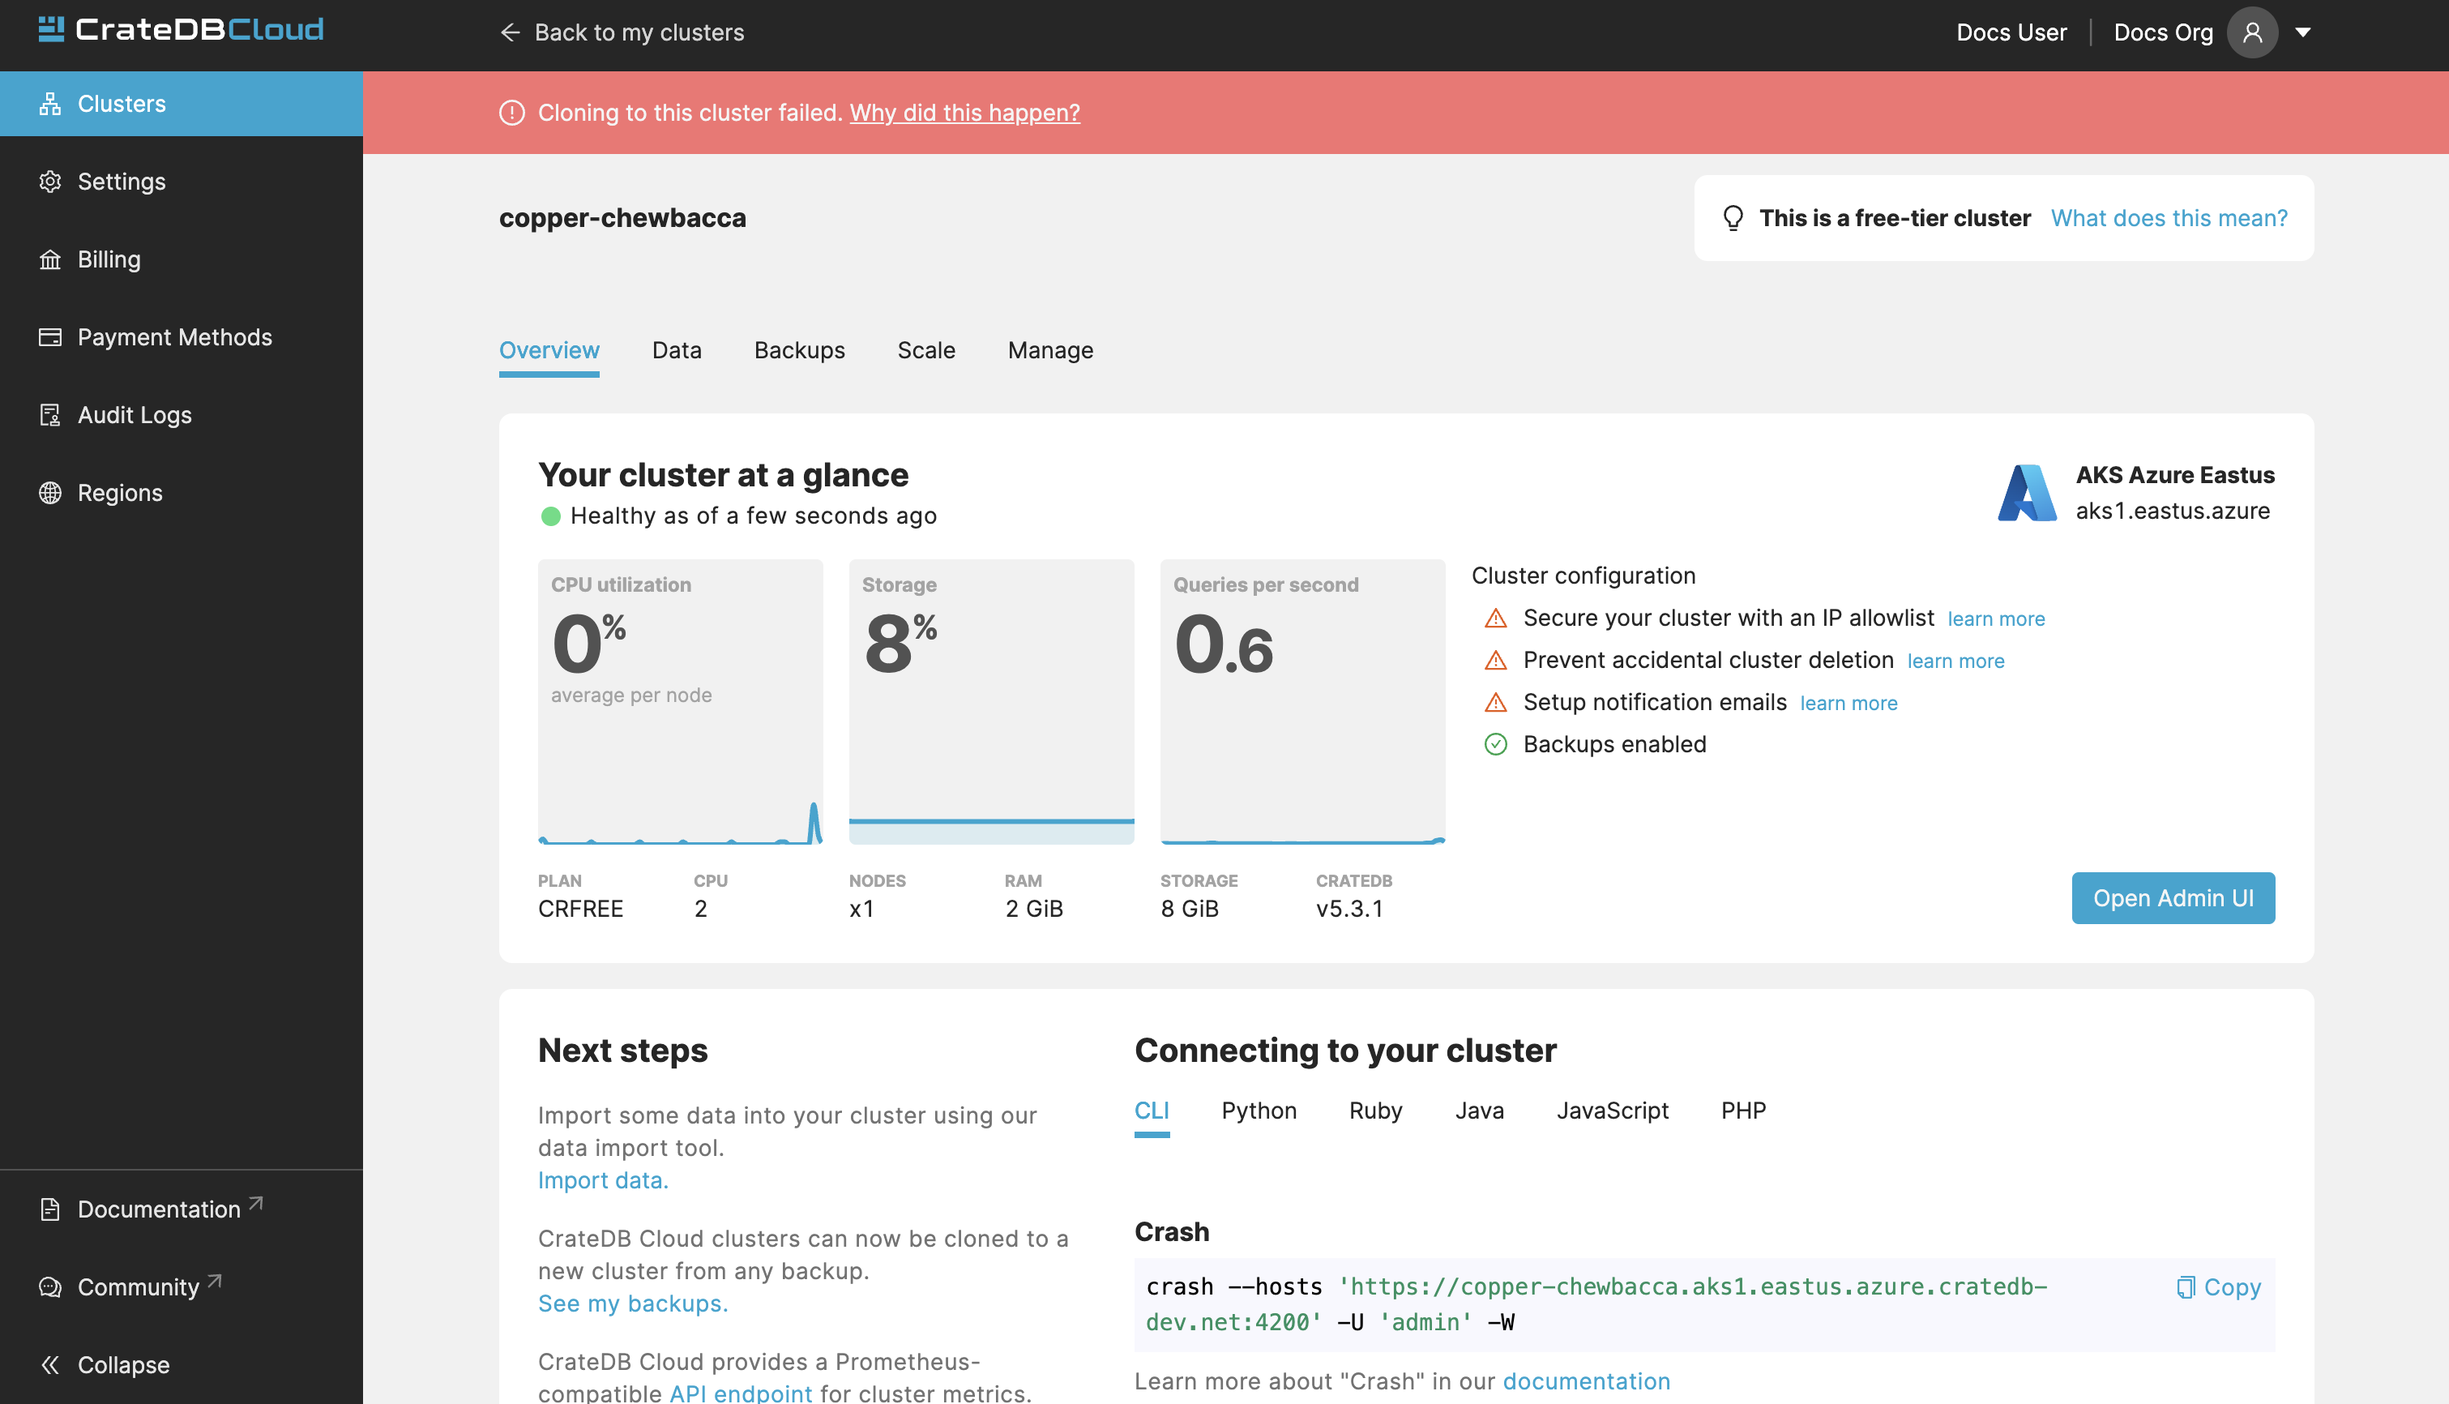
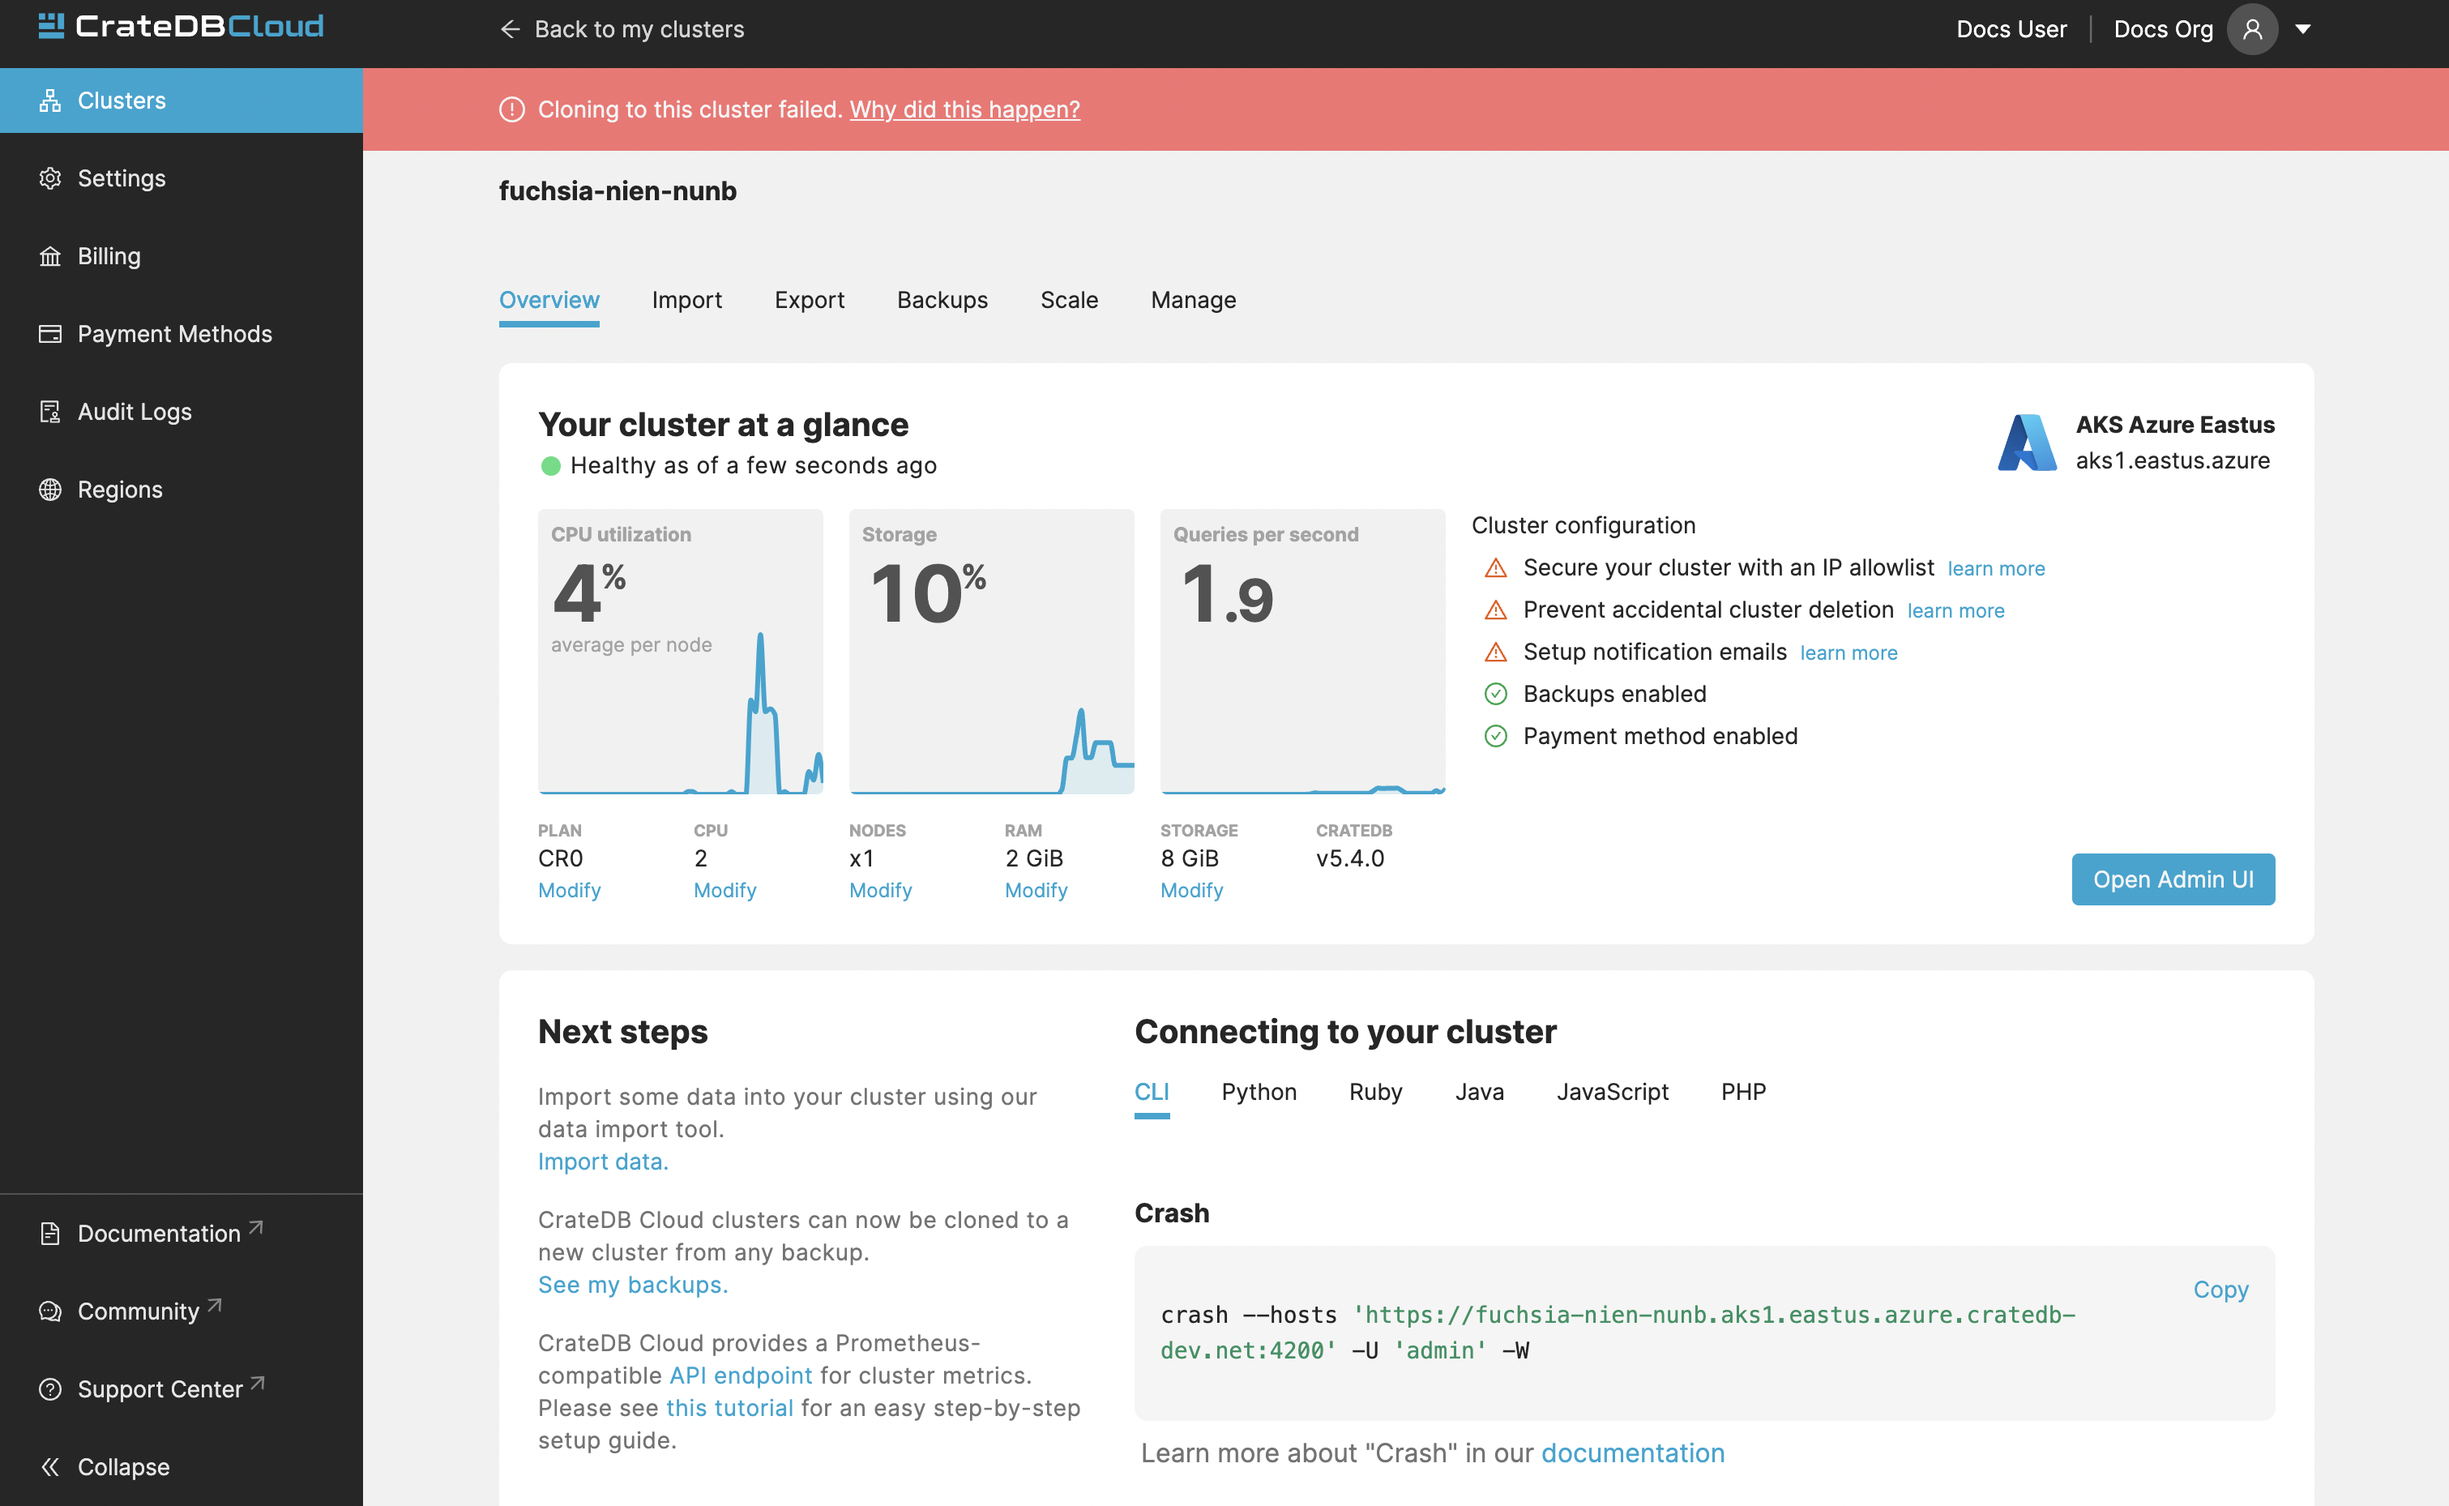
Document export feature

diff --git a/docs/overview.rst b/docs/overview.rst
@@ -71,7 +71,7 @@ the My Account page in the dropdown menu in the top-right.
 .. image:: _assets/img/organization-dashboard.png
    :alt: Cloud Console organization overview
 
-The Organization overview consists of seven tabs: *Clusters*, *Settings*, 
+The Organization overview consists of six tabs: *Clusters*, *Settings*, 
 *Billing*, *Payment Methods*, *Audit Logs*, and *Regions*. By default
 you are brought to the Clusters tab, which provides a quick overview of all
 your clusters.
@@ -267,29 +267,32 @@ Connecting to your cluster
 Here you can see a list of snippets for the available clients and libraries. 
 These include: CLI, Python, Ruby, Java, JavaScript, PHP.
 
-.. _overview-cluster-overview-access:
+.. _overview-import-tab:
 
-.. _overview-cluster-data:
+Import
+------
 
-Data
-----
+.. image:: _assets/img/cluster-import-tab.png
+   :alt: Cloud Console cluster import tab
 
-In the Data tab, users can conveniently import data from a URL, or from a 
-file.
+The first thing you see in the "Import" tab is the history of your imports. 
+You can see whether you imported from a URL or from a file, file name, table
+into which you imported, date, and status. By clicking "Show details" you can
+display the size and the number of records imported.
 
-.. _overview-cluster-data-url:
+Clicking the "Import new data" button will bring up a choice between URL 
+import and file import.
+
+.. image:: _assets/img/cluster-import-tab-choice.png
+   :alt: Cloud Console cluster upload choice
+
+If you don't have a dataset prepared, we also provide an example. It's the New
+York City taxi trip dataset for July of 2019 (about 6.3M records).
+
+.. _overview-cluster-import-url:
 
 Import from URL
 ~~~~~~~~~~~~~~~
-
-.. image:: _assets/img/cluster-data-tab.png
-   :alt: Cloud Console cluster data tab
-
-Here you can choose between the Import from URL and Import from file. To 
-import from a URL, click the Import from a URL button:
-
-.. image:: _assets/img/cluster-data-tab-url.png
-   :alt: Cloud Console cluster upload from url
 
 To import data, fill out the URL, name of the table which will be created and
 populated with your data, data format, and whether it is compressed.
@@ -306,7 +309,10 @@ The following data formats are supported:
 
 Gzip compressed files are also supported.
 
-.. _overview-cluster-data-file:
+.. image:: _assets/img/cluster-import-tab-url.png
+   :alt: Cloud Console cluster upload from URL
+
+.. _overview-cluster-import-file:
 
 Import from a file
 ~~~~~~~~~~~~~~~~~~
@@ -321,13 +327,13 @@ You may re-import the same file into multiple tables without having to
 re-upload it within those 3 days. Up to 5 files may be uploaded at the same
 time, with the oldest ones being automatically deleted if you upload more.
 
-.. image:: _assets/img/cluster-data-tab-file.png
+.. image:: _assets/img/cluster-import-tab-file.png
    :alt: Cloud Console cluster upload from file
 
 As with the URL import, CSV, JSON, and Parquet files are supported. There is 
 also a limit to file size, currently 1GB.
 
-.. _overview-cluster-data-limitations:
+.. _overview-cluster-import-limitations:
 
 Import Limitations
 ~~~~~~~~~~~~~~~~~~
@@ -380,7 +386,30 @@ The following formats are supported for JSON:
       {"id":1, "text": "example"}
       {"id":2, "text": "example2"}
 
+.. _overview-cluster-export:
 
+Export
+------
+
+The export tab allows users to download specific tables/views. When you first
+visit the Export tab, you can specify the name of a table/view, format (CSV,
+Parquet, JSON) and compression in which you'd like to export your data. 
+
+.. image:: _assets/img/cluster-export.png
+   :alt: Cloud Console cluster export tab
+
+History of your exports is also visible in the Export tab.
+
+.. image:: _assets/img/cluster-export-tab-history.png
+   :alt: Cloud Console cluster export tab history
+
+.. NOTE::
+
+    Export limitations:
+
+     - Size limit for exporting is 1 GiB
+     - Exports are held for 3 days, then automatically deleted
+     
 .. _overview-cluster-backups:
 
 Backups
@@ -417,6 +446,9 @@ automatically pre-filled.
 .. image:: _assets/img/cluster-backups-restore.png
    :alt: Cloud Console cluster backups restore page
 
+You have a choice between restoring the cluster fully, or only specific 
+tables. 
+
 .. _overview-cluster-cloning:
 
 Cluster Cloning
@@ -430,21 +462,18 @@ You can clone a cluster from the Backups page.
 .. image:: _assets/img/cluster-backups.png
    :alt: Cloud Console cluster backup snapshots
 
-Choose a snapshot and click the *Clone* button. A popup window will appear,
-where you can specify to which existing cluster the snapshot should be cloned.
-If you don't have a second cluster created, click the *Deploy a new cluster*
-button, and you will be brought to the cluster deployment screen. After you've
-selected a cluster, click the *Clone to selected cluster*. 
+Choose a snapshot and click the *Clone* button. As with restoring a backup, 
+you can choose between cloning the whole cluster, or only specific tables.
 
 .. image:: _assets/img/cluster-clone-popup.png
    :alt: Cloud Console cluster clone popup
 
 .. NOTE::
 
-    Keep in mind that cloning a cluster will rewrite all the existing users
-    from the target cluster. The tables already existing on the target cluster
-    are not affected. Cloning also doesn't distinguish between cluster plans,
-    meaning you can clone from CR2 to CR1 or any other variation.
+    Keep in mind that the full cluster clone will include users, views,
+    privileges and everything else. Cloning also doesn't distinguish between 
+    cluster plans, meaning you can clone from CR2 to CR1 or any other
+    variation.
 
 .. _overview-cluster-cloning-fail:
 
@@ -480,7 +509,7 @@ screen.
 Scale
 -----
 
-On the Scale tab, current configuration of your cluster is shown. You can see
+In the Scale tab, current configuration of your cluster is shown. You can see
 your current plan, resources of a single node, and overall resources of the
 cluster.
 
